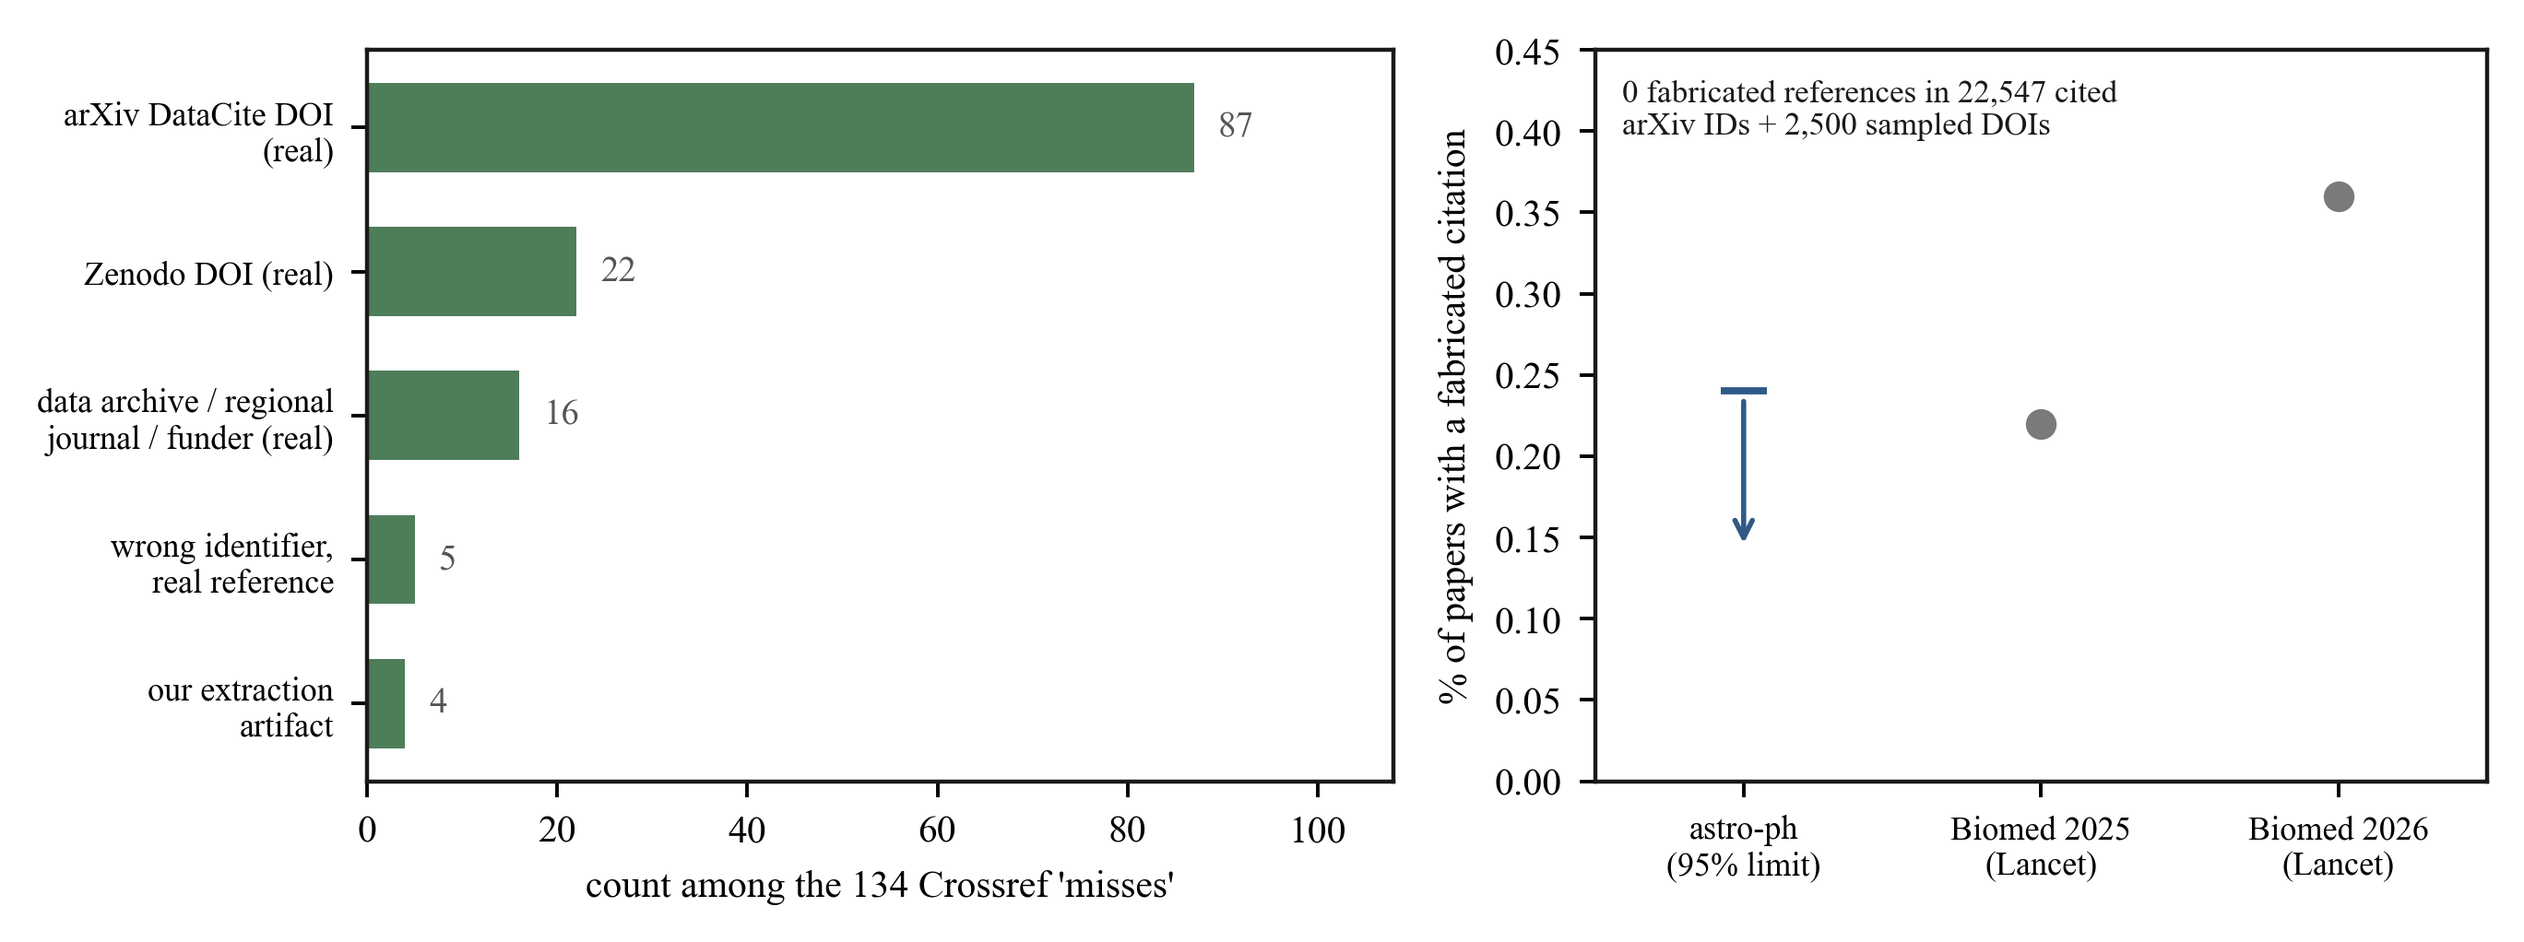
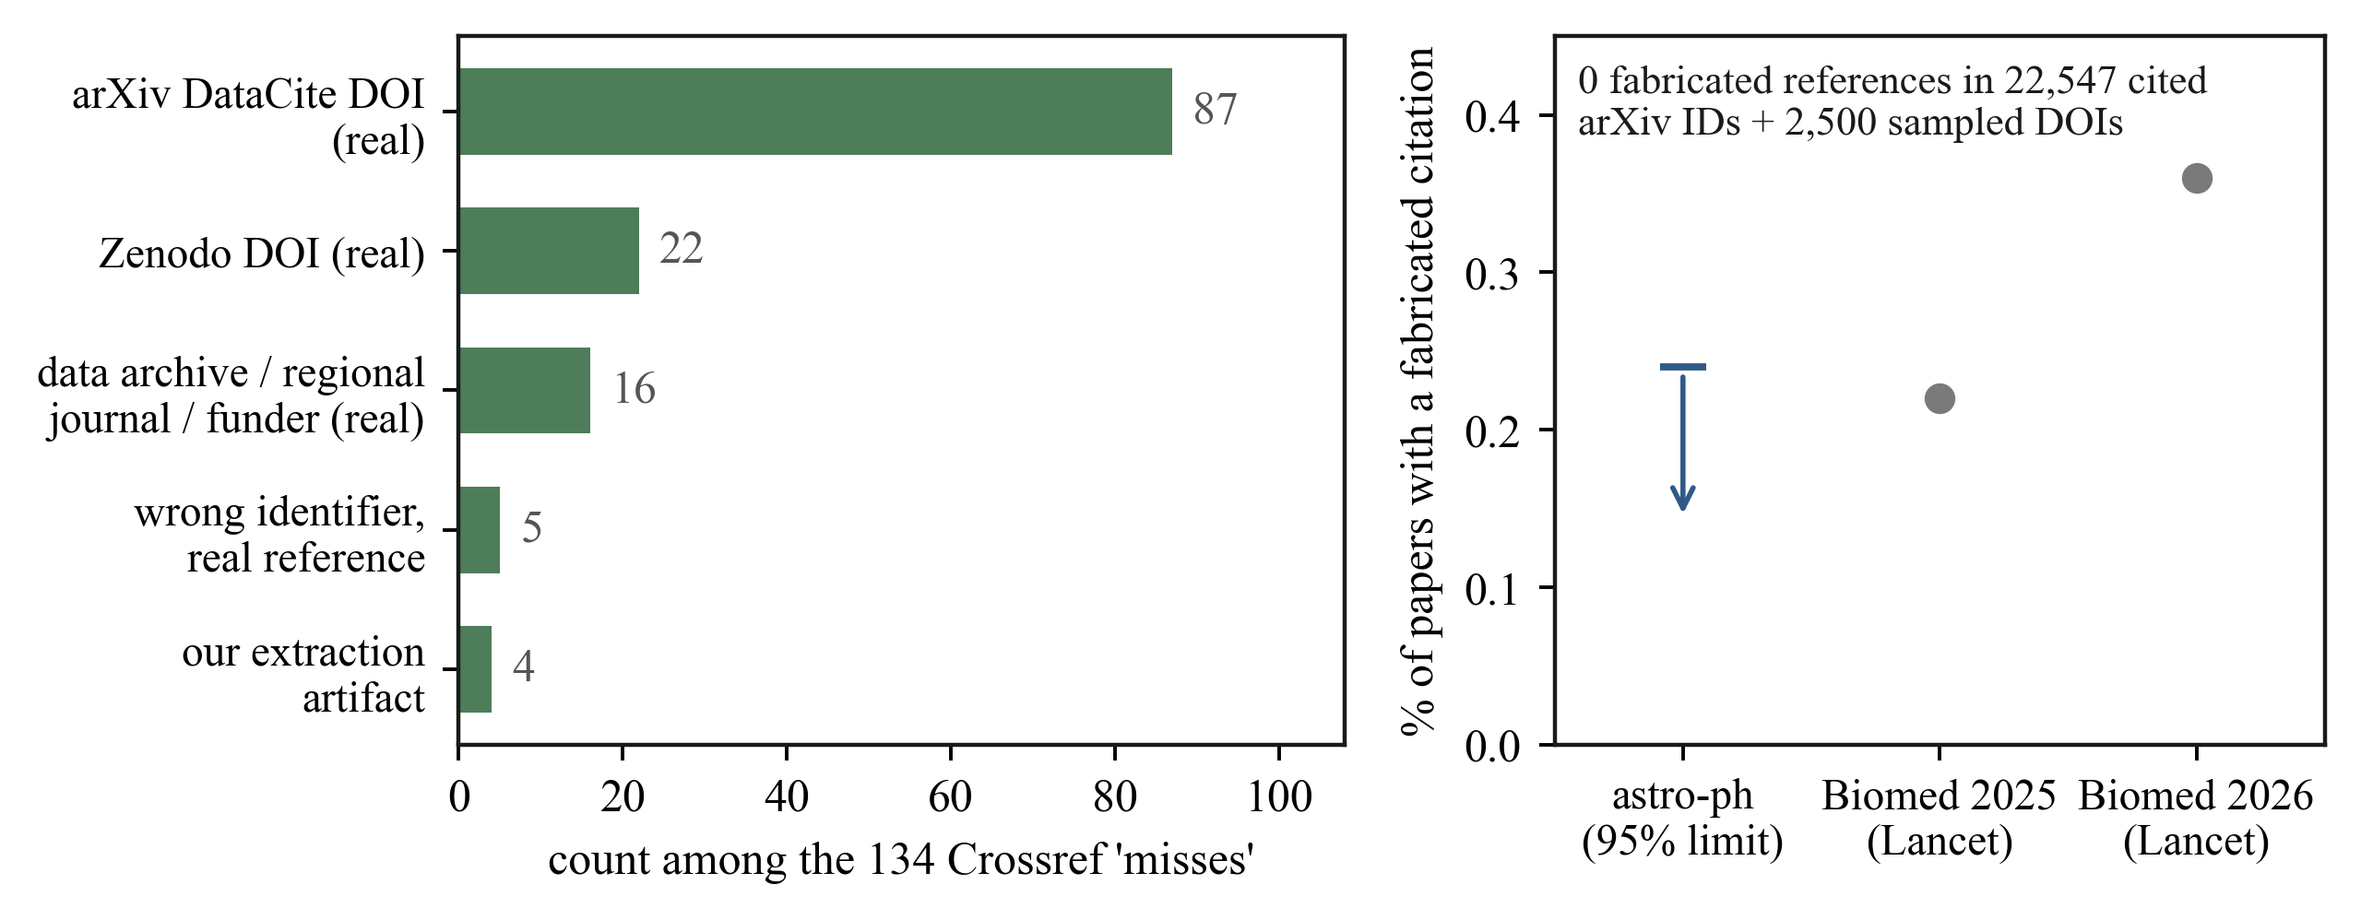
Match figure text to paper text size; remove semicolons and clause colons
- Figures now drawn at their printed dimensions (6.5 in full-width, 4.8 in for
  0.74-width includes) so fonts render 1:1: base text 10 pt, tick labels 9 pt,
  legends 9 pt, matching the 10 pt body. Fig 2 and Fig 3 include widths updated.
  All figures regenerated and the dense ones re-checked visually; the volcano's
  label placer drops labels that no longer fit rather than overlapping.
- Prose pass: all ~55 semicolons rewritten as separate sentences or comma
  constructions, clause-splicing colons removed (list-introducing colons and
  Left:/Right: caption convention retained), remaining intensifier adjectives
  dropped. No em dashes anywhere. Style linter PASS.

diff --git a/src/plots.py b/src/plots.py
@@ -47,7 +47,7 @@ def fig1_markers_vs_control():
     lohi = [wilson(k, n) for k, n in zip(agg.hit, agg.total)]
     yerr = np.array([[r*100 - lo*100 for (lo, hi), r in zip(lohi, agg.hit/agg.total)],
                      [hi*100 - r*100 for (lo, hi), r in zip(lohi, agg.hit/agg.total)]])
-    fig, ax = plt.subplots(figsize=(5.04, 3.00))
+    fig, ax = plt.subplots(figsize=(4.8, 2.85))
     ax.errorbar(yr.year, yr.rate*100, yerr=yerr, fmt="-o", color=C["vermillion"],
                 lw=1.3, ms=3.4, capsize=2, elinewidth=0.9,
                 label="LLM marker basket\n(delve, underscore, intricate, pivotal, ...)")
@@ -59,13 +59,13 @@ def fig1_markers_vs_control():
     coef = np.polyfit(pre.year, pre.rate*100, 1)
     xx = np.array([2022, 2025.4])
     ax.plot(xx, np.polyval(coef, xx), ls=(0, (3, 2)), lw=0.9, color=C["black"], zorder=2)
-    ax.text(2025.0, np.polyval(coef, 2024.4) - 0.4, "pre-2022 trend", fontsize=6.5,
+    ax.text(2025.0, np.polyval(coef, 2024.4) - 0.4, "pre-2022 trend", fontsize=8.5,
             color=C["black"], ha="right", va="top")
     ax.axvline(2022.85, color=C["grey"], ls="--", lw=1)
     ax.text(2022.7, 10.8, "ChatGPT", rotation=90, va="top", ha="right",
-            fontsize=8, color=C["grey"])
+            fontsize=9.5, color=C["grey"])
     ax.set_xlabel("Year"); ax.set_ylabel("% of abstracts containing the word(s)")
-    ax.legend(loc="center left", fontsize=7.5)
+    ax.legend(loc="center left", fontsize=9)
     ax.set_xticks(range(2015, 2026, 2))
     footer(fig); fig.tight_layout()
     fig.savefig(os.path.join(FIGS, "fig1_markers_vs_control.png"), bbox_inches="tight")
@@ -80,15 +80,15 @@ def fig2_delve_collapse():
     ym = pd.read_csv(os.path.join(DATA, "year_markers.csv"))
     words = ["delve", "underscore", "leveraging", "pivotal"]
 
-    fig = plt.figure(figsize=(7.0, 3.6))
+    fig = plt.figure(figsize=(6.5, 3.35))
     gs = fig.add_gridspec(2, 4, height_ratios=[1.0, 1.15], hspace=0.52, wspace=0.42)
     top = fig.add_subplot(gs[0, :])
     top.plot(a.yq, a.rate*100, color=C["black"], lw=1.3)
     top.axvline(2024.35, color=C["grey"], ls=":", lw=1.0)
     top.set_xlim(2022, 2026.6)
-    top.set_ylabel("% with any marker", fontsize=7.5)
-    top.set_title("any marker word", loc="left", fontsize=8)
-    top.tick_params(labelsize=7)
+    top.set_ylabel("% with any marker", fontsize=9)
+    top.set_title("any marker word", loc="left", fontsize=9.5)
+    top.tick_params(labelsize=9)
 
     for i, w in enumerate(words):
         ax = fig.add_subplot(gs[1, i])
@@ -103,11 +103,11 @@ def fig2_delve_collapse():
         ax.axvline(2024.35, color=C["grey"], ls=":", lw=0.8)
         ax.set_xlim(2022, 2026.6)
         ax.set_ylim(0, max(d.freq.max()*100*1.25, 0.1))
-        ax.set_title(w, loc="left", fontsize=8)
-        ax.tick_params(labelsize=6.5)
+        ax.set_title(w, loc="left", fontsize=9.5)
+        ax.tick_params(labelsize=8.5)
         ax.set_xticks([2022, 2024, 2026])
         if i == 0:
-            ax.set_ylabel("% of abstracts", fontsize=7.5)
+            ax.set_ylabel("% of abstracts", fontsize=9)
     fig.savefig(os.path.join(FIGS, "fig2_delve_collapse.png"), bbox_inches="tight")
     plt.close(fig)
 
@@ -133,7 +133,7 @@ def fig3_discovery():
                 "language","transformer","simulation","cosmos","euclid","lrds",
                 "little","red","dots")
 
-    fig, (axA, axB) = plt.subplots(1, 2, figsize=(9.0, 4.1))
+    fig, (axA, axB) = plt.subplots(1, 2, figsize=(6.5, 3.6))
     for ax in (axA, axB):
         ax.set_xscale("log"); ax.set_yscale("log")
 
@@ -163,7 +163,7 @@ def fig3_discovery():
     ann = sel[sel.word.isin(show_a)]
     others = sel[~sel.word.isin(show_a)]
     place_labels(axA, list(ann.rec_freq*100), list(ann.ratio), list(ann.word),
-                 colors=[kcol[k] for k in ann.kind], fontsize=7.6,
+                 colors=[kcol[k] for k in ann.kind], fontsize=8.5,
                  obstacles=list(zip(others.rec_freq*100, others.ratio)))
 
     # ---- panel (b): two-word phrases ----
@@ -185,7 +185,7 @@ def fig3_discovery():
     annb = selb[selb.bigram.isin(show_b)]
     othb = selb[~selb.bigram.isin(show_b)]
     place_labels(axB, list(annb.rec_freq*100), list(annb.ratio), list(annb.bigram),
-                 colors=[kcol[k] for k in annb.kind], fontsize=7.6,
+                 colors=[kcol[k] for k in annb.kind], fontsize=8.5,
                  obstacles=list(zip(othb.rec_freq*100, othb.ratio)))
 
     from matplotlib.lines import Line2D
@@ -196,7 +196,7 @@ def fig3_discovery():
                label="style word / phrase"),
         Line2D([0],[0], marker="o", color="w", markerfacecolor=C["green"], ms=4,
                label="ML method term")],
-        loc="lower left", fontsize=7.5, handletextpad=0.3)
+        loc="lower left", fontsize=9, handletextpad=0.3)
     fig.tight_layout()
     fig.savefig(os.path.join(FIGS, "fig3_discovery.png"), bbox_inches="tight")
     plt.close(fig)
@@ -208,21 +208,21 @@ def fig4_disclosure():
     ack = [d["ack"][str(y)] for y in yrs]
     full = [d["full"][str(y)] for y in yrs]
     tot = [d["total_astro"][str(y)] for y in yrs]
-    fig, (ax1, ax2) = plt.subplots(1, 2, figsize=(6.84, 2.88))
+    fig, (ax1, ax2) = plt.subplots(1, 2, figsize=(6.5, 2.74))
     ax1.bar([y-0.2 for y in yrs], full, width=0.4, color=C["sky"], label="mentions in full text")
     ax1.bar([y+0.2 for y in yrs], ack, width=0.4, color=C["vermillion"],
             label="stated in acknowledgments")
     from pantera_style import no_minor_x
     no_minor_x(ax1)
     ax1.set_ylabel("number of papers per year"); ax1.set_xlabel("Year")
-    ax1.legend(fontsize=7, loc="upper left"); ax1.set_xticks(range(2016,2027,2))
+    ax1.legend(fontsize=9, loc="upper left"); ax1.set_xticks(range(2016,2027,2))
     # fraction
     frac_ack = [100*a/t for a,t in zip(ack,tot)]
     frac_full = [100*f/t for f,t in zip(full,tot)]
     ax2.plot(yrs, frac_full, "-o", color=C["sky"], lw=1.3, label="full text")
     ax2.plot(yrs, frac_ack, "-o", color=C["vermillion"], lw=1.3, label="acknowledgments")
     ax2.set_ylabel("% of astronomy papers"); ax2.set_xlabel("Year")
-    ax2.legend(fontsize=7.3); ax2.set_xticks(range(2016,2027,2))
+    ax2.legend(fontsize=9); ax2.set_xticks(range(2016,2027,2))
     ax2.yaxis.set_major_formatter(PercentFormatter(decimals=1))
     footer(fig); fig.tight_layout(rect=[0,0.04,1,1])
     fig.savefig(os.path.join(FIGS, "fig4_disclosure.png"), bbox_inches="tight")
@@ -247,7 +247,7 @@ def fig5_gap():
         ("astro-ph, any AI mention in text",     disc_full, C["blue"], "open"),
         ("astro-ph, stated in acknowledgments",  disc_ack,  C["blue"], "open"),
     ]
-    fig, ax = plt.subplots(figsize=(4.7, 2.4))
+    fig, ax = plt.subplots(figsize=(6.5, 3.0))
     ys = list(range(len(rows)))
     for yi, (lab, v, col, kind) in zip(ys, rows):
         ax.plot([0.1, v], [yi, yi], lw=0.7, color="#CCCCCC", zorder=1)
@@ -260,9 +260,9 @@ def fig5_gap():
                         arrowprops=dict(arrowstyle="->", color=col, lw=1.0))
         ax.text(v*2.2 if kind == "lb" else v*1.25, yi,
                 f"{v:.2f}%" if v < 1 else f"{v:.1f}%",
-                va="center", fontsize=7, color="#555555")
+                va="center", fontsize=9, color="#555555")
     no_minor_y(ax)
-    ax.set_yticks(ys); ax.set_yticklabels([r[0] for r in rows], fontsize=7)
+    ax.set_yticks(ys); ax.set_yticklabels([r[0] for r in rows], fontsize=9)
     ax.invert_yaxis()
     ax.set_xscale("log"); ax.set_xlim(0.1, 60)
     ax.set_xlabel("% of papers with model-edited text (2025), log scale", labelpad=4)
@@ -277,7 +277,7 @@ def fig6_volume():
     fig, ax = plt.subplots(figsize=(4.80, 2.76))
     ax.bar(yc.year, yc.n_abstracts, color=C["blue"])
     ax.axvline(2022.85, color=C["vermillion"], ls="--", lw=1.5)
-    ax.text(2023.0, yc.n_abstracts.max()*0.96, "ChatGPT", color=C["vermillion"], fontsize=7.3)
+    ax.text(2023.0, yc.n_abstracts.max()*0.96, "ChatGPT", color=C["vermillion"], fontsize=9)
     ax.set_xlabel("Year"); ax.set_ylabel("astro-ph submissions (sampled via arXiv API)")
     ax.set_xticks(range(2015,2026,2))
     footer(fig); fig.tight_layout(rect=[0,0.03,1,1])

diff --git a/src/plots3.py b/src/plots3.py
@@ -15,16 +15,16 @@ def fig10_subfield():
     palette = {order[0]: C["vermillion"]}
     others = [C["blue"], C["green"], C["purple"], C["sky"], C["orange"]]
     for i, s in enumerate(order[1:]): palette[s] = others[i % len(others)]
-    fig, ax = plt.subplots(figsize=(5.28, 3.18))
+    fig, ax = plt.subplots(figsize=(4.8, 2.9))
     for s in order:
         d = df[df.subfield==s].sort_values("year")
         lw = 3.2 if s == order[0] else 1.8
         ax.plot(d.year, d.rate, "-o", ms=3.2, lw=lw, color=palette[s],
                 label=s)
     ax.axvline(2022.85, color=C["grey"], ls="--", lw=1)
-    ax.text(2022.7, 7.9, "ChatGPT", rotation=90, va="top", ha="right", fontsize=8, color=C["grey"])
+    ax.text(2022.7, 7.9, "ChatGPT", rotation=90, va="top", ha="right", fontsize=9.5, color=C["grey"])
     ax.set_xlabel("Year"); ax.set_ylabel("% of abstracts with LLM marker basket")
-    ax.legend(loc="upper left", fontsize=7.4)
+    ax.legend(loc="upper left", fontsize=9)
     ax.set_xticks(range(2018, 2027, 2))
     footer(fig, "Data: 200,547 astro-ph abstracts by primary arXiv category  |  Analysis for Astrobites")
     fig.tight_layout(rect=[0,0.03,1,1])
@@ -49,7 +49,7 @@ def fig11_geography():
         lo, hi = wilson(r["marker"], r["total"])
         xerr_by[c] = (r["marker_pct"] - lo*100, hi*100 - r["marker_pct"])
     FS = 9.5                       # label font size
-    fig, ax = plt.subplots(figsize=(6.60, 4.20))
+    fig, ax = plt.subplots(figsize=(6.5, 4.14))
     for (c, mk, dc, n, nat) in rows:
         col = C["blue"] if nat else C["vermillion"]
         ax.scatter(mk, dc, s=30+n/40, color=col, alpha=0.85, edgecolor="white",
@@ -157,7 +157,7 @@ def fig11_geography():
     from matplotlib.lines import Line2D
     ax.legend(handles=[Line2D([0],[0],marker='o',color='w',markerfacecolor=C["blue"],label='native English',ms=9),
                        Line2D([0],[0],marker='o',color='w',markerfacecolor=C["vermillion"],label='non-native English',ms=9)],
-              loc="upper left", fontsize=7.3)
+              loc="upper left", fontsize=9)
     footer(fig, "Data: NASA ADS aff: x abs:/ack: queries, 2025  |  aff: matches any affiliation (multi-country collabs double-counted)")
     fig.savefig(os.path.join(FIGS, "fig11_equity_map.png"), bbox_inches="tight"); plt.close(fig)
 
@@ -182,7 +182,7 @@ def fig12_citation_integrity():
     n_arxiv_inst = 22547   # cited arXiv-ID instances, all resolve
     n_doi_checked = v["doi"]["checked"]
 
-    fig, (axL, axR) = plt.subplots(1, 2, figsize=(6.9, 2.6), gridspec_kw={"width_ratios":[1.15,1]})
+    fig, (axL, axR) = plt.subplots(1, 2, figsize=(6.5, 2.6), gridspec_kw={"width_ratios":[1.15,1]})
     # LEFT: classification of Crossref misses as a dot plot (none is a fabrication)
     order = ["arXiv DataCite DOI\n(real)", "Zenodo DOI (real)",
              "data archive / regional\njournal / funder (real)",
@@ -192,12 +192,12 @@ def fig12_citation_integrity():
     ys = list(range(len(labels)))
     axL.barh(ys, vals, color=C["green"], height=0.62)
     for yi, v in zip(ys, vals):
-        axL.text(v+2.5, yi, str(v), va="center", fontsize=7, color="#555555")
+        axL.text(v+2.5, yi, str(v), va="center", fontsize=9, color="#555555")
     no_minor_y(axL)
-    axL.set_yticks(ys); axL.set_yticklabels(labels, fontsize=6.5)
+    axL.set_yticks(ys); axL.set_yticklabels(labels, fontsize=8.5)
     axL.invert_yaxis()
     axL.set_xlim(0, 108)
-    axL.set_xlabel(f"count among the {sum(vals)} Crossref 'misses'", fontsize=7.5)
+    axL.set_xlabel(f"count among the {sum(vals)} Crossref 'misses'", fontsize=9)
     # RIGHT: fabrication rate; astro-ph as a 95% upper limit (arrow), biomed as points
     cats = ["astro-ph\n(95% limit)", "Biomed 2025\n(Lancet)", "Biomed 2026\n(Lancet)"]
     xs = [0, 1, 2]
@@ -208,12 +208,12 @@ def fig12_citation_integrity():
     axR.plot(1, 0.22, "o", ms=5, color=C["grey"])
     axR.plot(2, 0.36, "o", ms=5, color=C["grey"])
     no_minor_x(axR)
-    axR.set_xticks(xs); axR.set_xticklabels(cats, fontsize=6.5)
+    axR.set_xticks(xs); axR.set_xticklabels(cats, fontsize=8.5)
     axR.set_xlim(-0.5, 2.5); axR.set_ylim(0, 0.45)
-    axR.set_ylabel("% of papers with a fabricated citation", fontsize=7.5)
+    axR.set_ylabel("% of papers with a fabricated citation", fontsize=9)
     axR.text(0.03, 0.96, f"0 fabricated references in {n_arxiv_inst:,} cited\narXiv IDs"
              f" + {n_doi_checked:,} sampled DOIs",
-             transform=axR.transAxes, fontsize=6.3, va="top", color=C["black"])
+             transform=axR.transAxes, fontsize=8, va="top", color=C["black"])
     fig.tight_layout()
     fig.savefig(os.path.join(FIGS, "fig12_citation_integrity.png"), bbox_inches="tight")
 

diff --git a/src/plots_ngram.py b/src/plots_ngram.py
@@ -15,7 +15,7 @@ def fig_ngram_viewer():
     show = [("underscores the", C["vermillion"]), ("highlighting the", C["orange"]),
             ("leveraging the", C["green"]), ("pivotal role", C["purple"]),
             ("delve into", C["black"]), ("wide range", C["blue"])]
-    fig, ax = plt.subplots(figsize=(4.20, 2.64))
+    fig, ax = plt.subplots(figsize=(4.8, 3.0))
     for p, col in show:
         s = w[w.phrase == p].sort_values("year")
         ls = "--" if p == "wide range" else "-"
@@ -24,9 +24,9 @@ def fig_ngram_viewer():
     ax.axvline(2022.85, color=C["grey"], ls=":", lw=1)
     ax.set_ylim(-0.1, 2.8)
     ax.text(2022.7, 1.55, "ChatGPT", rotation=90, va="top",
-            ha="right", fontsize=7.5, color=C["grey"])
+            ha="right", fontsize=9, color=C["grey"])
     ax.set_xlabel("Year"); ax.set_ylabel("fraction of abstracts with the phrase (%)")
-    ax.legend(fontsize=7, loc="center left", bbox_to_anchor=(0.03, 0.40))
+    ax.legend(fontsize=9, loc="center left", bbox_to_anchor=(0.03, 0.40))
     ax.set_xticks(range(2015, 2026, 2))
     fig.tight_layout()
     fig.savefig(os.path.join(FIGS, "fig_ngram_viewer.png"), bbox_inches="tight"); plt.close(fig)
@@ -62,12 +62,12 @@ def fig_cooccur():
     lift = lift[np.ix_(order, order)]; sig = sig[np.ix_(order, order)]
     pairs = pairs[np.ix_(order, order)]; M = [M[i] for i in order]
     disp = np.where(sig, lift, np.nan)
-    fig, ax = plt.subplots(figsize=(4.44, 3.72))
+    fig, ax = plt.subplots(figsize=(4.8, 4.0))
     ax.set_facecolor("#EDEDED")   # grey background = not significant / no excess
     im = ax.imshow(np.ma.masked_invalid(disp), cmap="YlOrBr",
                    norm=LogNorm(vmin=1, vmax=np.nanmax(disp)))
-    ax.set_xticks(range(n)); ax.set_xticklabels(M, rotation=45, ha="right", fontsize=8.5)
-    ax.set_yticks(range(n)); ax.set_yticklabels(M, fontsize=8.5)
+    ax.set_xticks(range(n)); ax.set_xticklabels(M, rotation=45, ha="right", fontsize=9.5)
+    ax.set_yticks(range(n)); ax.set_yticklabels(M, fontsize=9.5)
     ax.xaxis.set_minor_locator(mpl.ticker.NullLocator())
     ax.yaxis.set_minor_locator(mpl.ticker.NullLocator())
     for i in range(n):
@@ -75,10 +75,10 @@ def fig_cooccur():
             if i != j and np.isfinite(disp[i, j]):
                 v = disp[i, j]
                 ax.text(j, i, f"{v:.0f}" if v >= 10 else f"{v:.1f}",
-                        ha="center", va="center", fontsize=6.5,
+                        ha="center", va="center", fontsize=8.5,
                         color="white" if v > 30 else "#333")
     cb = fig.colorbar(im, ax=ax, fraction=0.046, pad=0.04)
-    cb.set_label("co-occurrence lift (1 = independent)", fontsize=7.3)
+    cb.set_label("co-occurrence lift (1 = independent)", fontsize=9)
     fig.tight_layout()
     fig.savefig(os.path.join(FIGS, "fig_cooccur.png"), bbox_inches="tight"); plt.close(fig)
 

diff --git a/src/plots2.py b/src/plots2.py
@@ -21,17 +21,17 @@ def fig7_hype_hedge():
     hbase, gbase = base.hype_per1k.mean(), base.hedge_per1k.mean()
     d["hype_idx"] = 100 * d.hype_per1k / hbase
     d["hedge_idx"] = 100 * d.hedge_per1k / gbase
-    fig, ax = plt.subplots(figsize=(5.16, 3.06))
+    fig, ax = plt.subplots(figsize=(4.8, 2.85))
     ax.axhline(100, color=C["grey"], lw=1, ls=":")
     ax.plot(d.year, d.hype_idx, "-o", color=C["vermillion"], lw=1.5, ms=3,
             label="Hype words (unprecedented, remarkable, striking, ...)")
     ax.plot(d.year, d.hedge_idx, "-s", color=C["blue"], lw=1.3, ms=3.4,
             label="Hedging words (may, might, suggest, likely, ...)")
     ax.axvline(2022.85, color=C["grey"], ls="--", lw=1)
-    ax.text(2022.7, 126.5, "ChatGPT", rotation=90, va="top", ha="right", fontsize=8, color=C["grey"])
+    ax.text(2022.7, 126.5, "ChatGPT", rotation=90, va="top", ha="right", fontsize=9.5, color=C["grey"])
     ax.set_ylabel("frequency, indexed to 2015-19 = 100"); ax.set_xlabel("Year")
     ax.set_ylim(90, 128)
-    ax.legend(loc="upper left", fontsize=7.5)
+    ax.legend(loc="upper left", fontsize=9)
     ax.set_xticks(range(2015, 2027, 2))
     footer(fig); fig.tight_layout()
     fig.savefig(os.path.join(FIGS, "fig7_hype_hedge.png"), bbox_inches="tight"); plt.close(fig)
@@ -46,7 +46,7 @@ def fig8_detectability():
     # annualize 2026 (partial ~ half year): scale full-text fraction is a rate so fine
     frac_full = [100*f/t for f, t in zip(full, tot)]
 
-    fig, (axL, axR) = plt.subplots(1, 2, figsize=(7.32, 3.12))
+    fig, (axL, axR) = plt.subplots(1, 2, figsize=(6.5, 2.77))
     # LEFT: marker clusters quarterly
     axL.plot(s.yq, s.all_markers*100, color=C["black"], lw=1.4, label="all markers", zorder=5)
     axL.plot(s.yq, s.collapsing*100, "-o", ms=2.8, color=C["vermillion"], lw=1.2,
@@ -54,7 +54,7 @@ def fig8_detectability():
     axL.plot(s.yq, s.rising*100, "-o", ms=2.8, color=C["green"], lw=1.2,
              label="late tells")
     axL.set_xlabel("Year (quarterly)"); axL.set_ylabel("% of abstracts with marker(s)")
-    axL.legend(loc="upper left", fontsize=7.5)
+    axL.legend(loc="upper left", fontsize=9)
     axL.set_xlim(2022, 2026.6)
     # RIGHT: disclosure still rising -> contradiction
     axR.plot(yrs, frac_full, "-o", color=C["sky"], lw=1.4, ms=3)

diff --git a/src/analyze_source.py b/src/analyze_source.py
@@ -98,15 +98,15 @@ def make_figure():
     ]
     labels = [r[0] for r in rungs]; vals = [r[1] for r in rungs]; cols = [r[2] for r in rungs]
     from pantera_style import no_minor_y
-    fig, ax = plt.subplots(figsize=(4.6, 2.6))
+    fig, ax = plt.subplots(figsize=(6.5, 3.4))
     y = list(range(len(rungs)))
     for yi, v, c in zip(y, vals, cols):
         ax.plot([0.05, v], [yi, yi], lw=0.7, color="#BBBBBB", zorder=1)
         ax.plot(v, yi, "o", ms=5, color=c, zorder=3)
         ax.text(v*1.25, yi, f"{v:.2f}%" if v < 1 else f"{v:.1f}%", va="center",
-                fontsize=7, color="#555555")
+                fontsize=9, color="#555555")
     no_minor_y(ax)
-    ax.set_yticks(y); ax.set_yticklabels(labels, fontsize=7)
+    ax.set_yticks(y); ax.set_yticklabels(labels, fontsize=9)
     ax.invert_yaxis()
     ax.set_xscale("log")
     ax.set_xlim(0.05, 40)

diff --git a/src/pantera_style.py b/src/pantera_style.py
@@ -35,11 +35,11 @@ def apply():
         "mathtext.it": "Times New Roman:italic",
         "mathtext.bf": "Times New Roman:bold",
         "svg.fonttype": "none", "pdf.fonttype": 42,
-        # compact type
-        "font.size": 8.5, "axes.labelsize": 8.5,
-        "axes.titlesize": 9, "axes.titleweight": "bold",
-        "xtick.labelsize": 7.5, "ytick.labelsize": 7.5,
-        "legend.fontsize": 7.5,
+        # match the paper's 10 pt body text
+        "font.size": 10, "axes.labelsize": 10,
+        "axes.titlesize": 10.5, "axes.titleweight": "bold",
+        "xtick.labelsize": 9, "ytick.labelsize": 9,
+        "legend.fontsize": 9,
         # full box, thin
         "axes.spines.top": True, "axes.spines.right": True,
         "axes.spines.left": True, "axes.spines.bottom": True,
